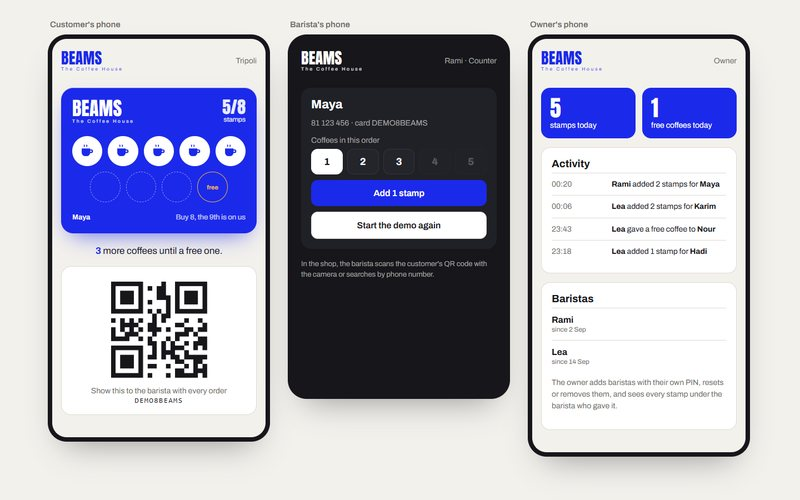
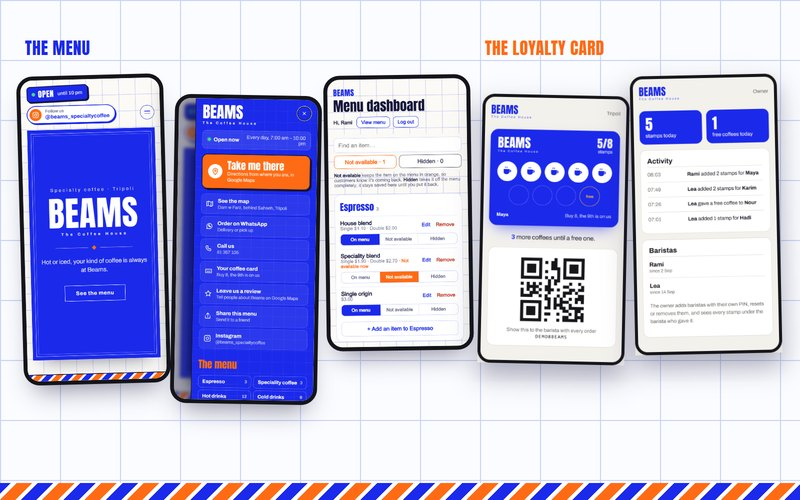
Beams: show the menu website with the loyalty card

diff --git a/README.md b/README.md
@@ -15,10 +15,10 @@ I'm a full-stack developer in Tripoli, Lebanon. I build web apps end to end: the
       <p><sub>Next.js 14 · Tailwind CSS · React Query · Laravel 11 · MySQL</sub><br>My PRs: <a href="https://github.com/hadi-chebbo/Guidely/pull/26">majors page</a>, <a href="https://github.com/hadi-chebbo/Guidely/pull/43">search</a>, <a href="https://github.com/hadi-chebbo/Guidely/pull/47">pagination</a>, <a href="https://github.com/hadi-chebbo/Guidely/pull/83">quiz flow</a></p>
     </td>
     <td width="50%" valign="top">
-      <a href="https://beams-card-demo.vercel.app/demo"><img src="assets/beams.jpg" alt="Beams coffee card demo: customer, barista and owner phones side by side"></a>
-      <h3><a href="https://beams-card-demo.vercel.app/demo">Beams Coffee Card</a> <sub>client build</sub></h3>
-      <p>Digital stamp card for Beams Specialty Coffee in Tripoli: buy 8, the 9th is free. Customers keep a QR card on their phone, each barista stamps it from their own PIN account, and the owner sees every stamp in an activity log.</p>
-      <p><sub>Next.js 15 · React 19 · TypeScript · Supabase · html5-qrcode · Vitest</sub><br><a href="https://beams-card-demo.vercel.app/demo">Live demo</a> · <a href="https://jad-obeidd.github.io/work/beams-coffee-card/">Case study</a></p>
+      <a href="https://beams-menu.vercel.app"><img src="assets/beams.jpg" alt="Beams menu website, barista dashboard, stamp card and owner activity log on phones"></a>
+      <h3><a href="https://jad-obeidd.github.io/work/beams-coffee-card/">Beams: Menu + Loyalty Card</a> <sub>client build</sub></h3>
+      <p>Two connected apps for Beams Specialty Coffee in Tripoli. A menu website with WhatsApp ordering, where baristas edit items or mark them not available from their own page. And a stamp card (buy 8, the 9th is free) with barista PIN accounts and an owner activity log.</p>
+      <p><sub>Next.js 15 · React 19 · TypeScript · Supabase · html5-qrcode · Vitest</sub><br><a href="https://beams-menu.vercel.app">Live menu</a> · <a href="https://beams-card-demo.vercel.app/demo">Card demo</a> · <a href="https://jad-obeidd.github.io/work/beams-coffee-card/">Case study</a></p>
     </td>
   </tr>
   <tr>
